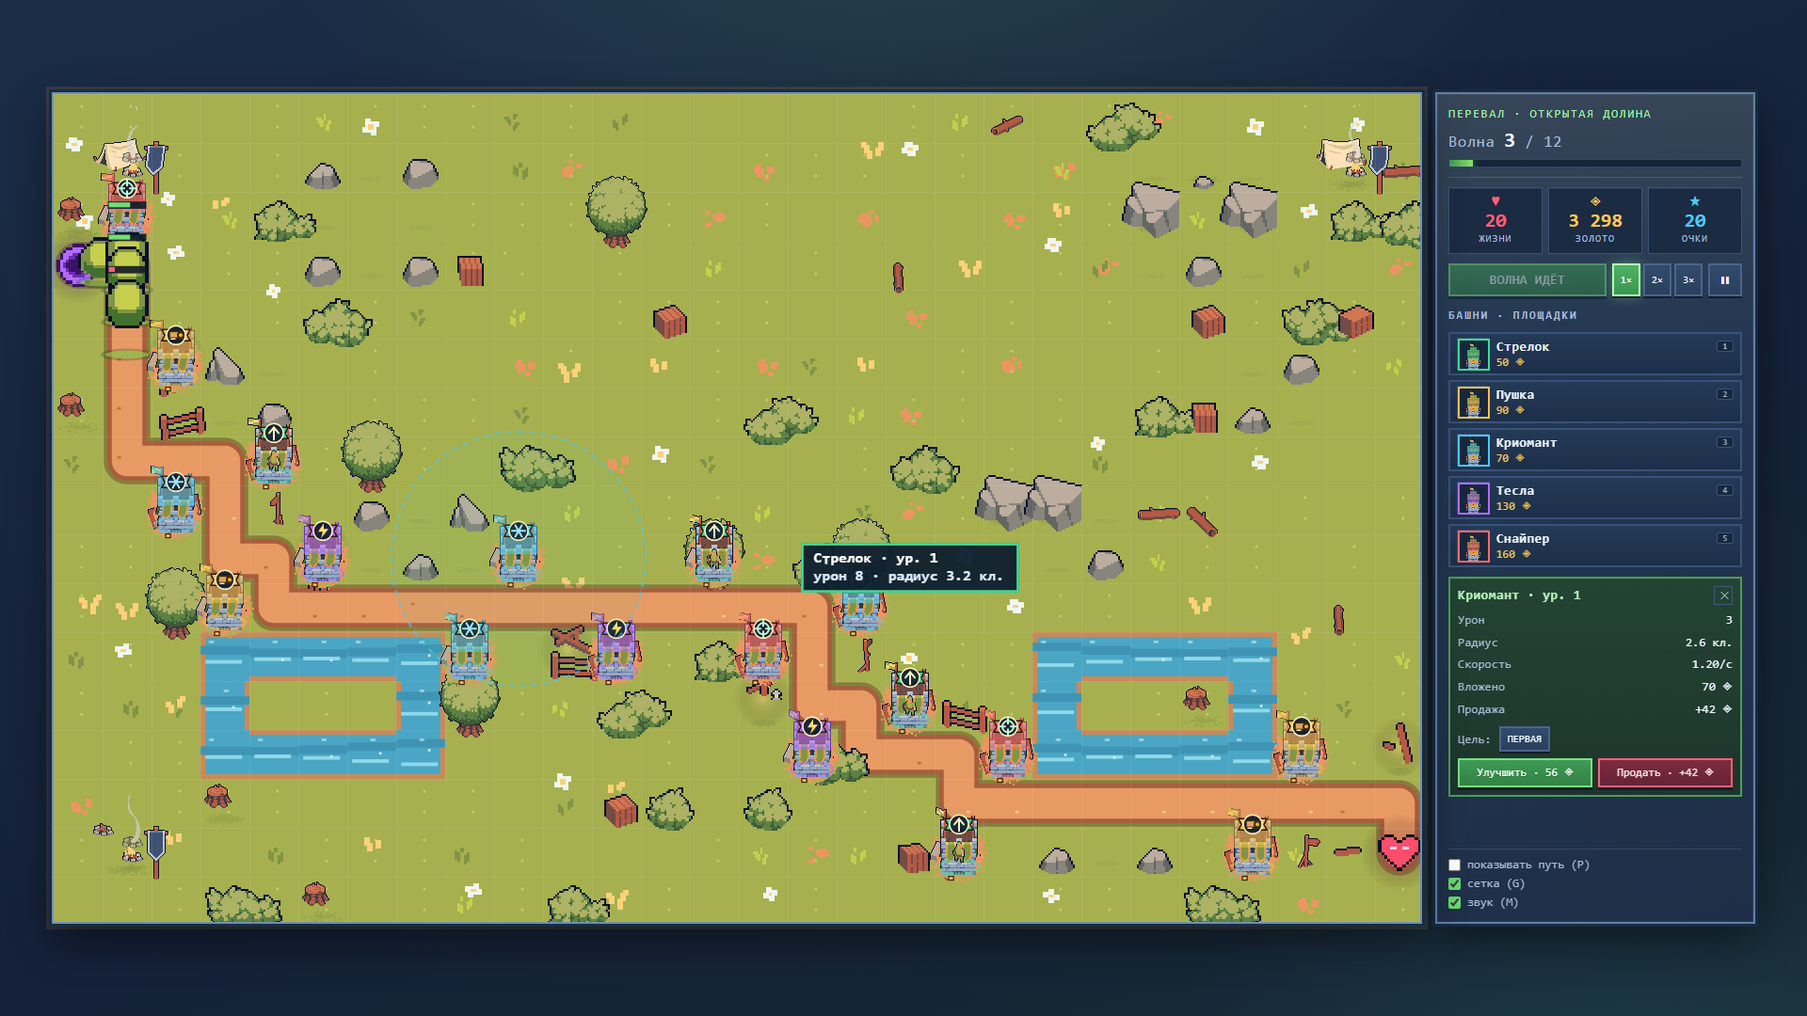
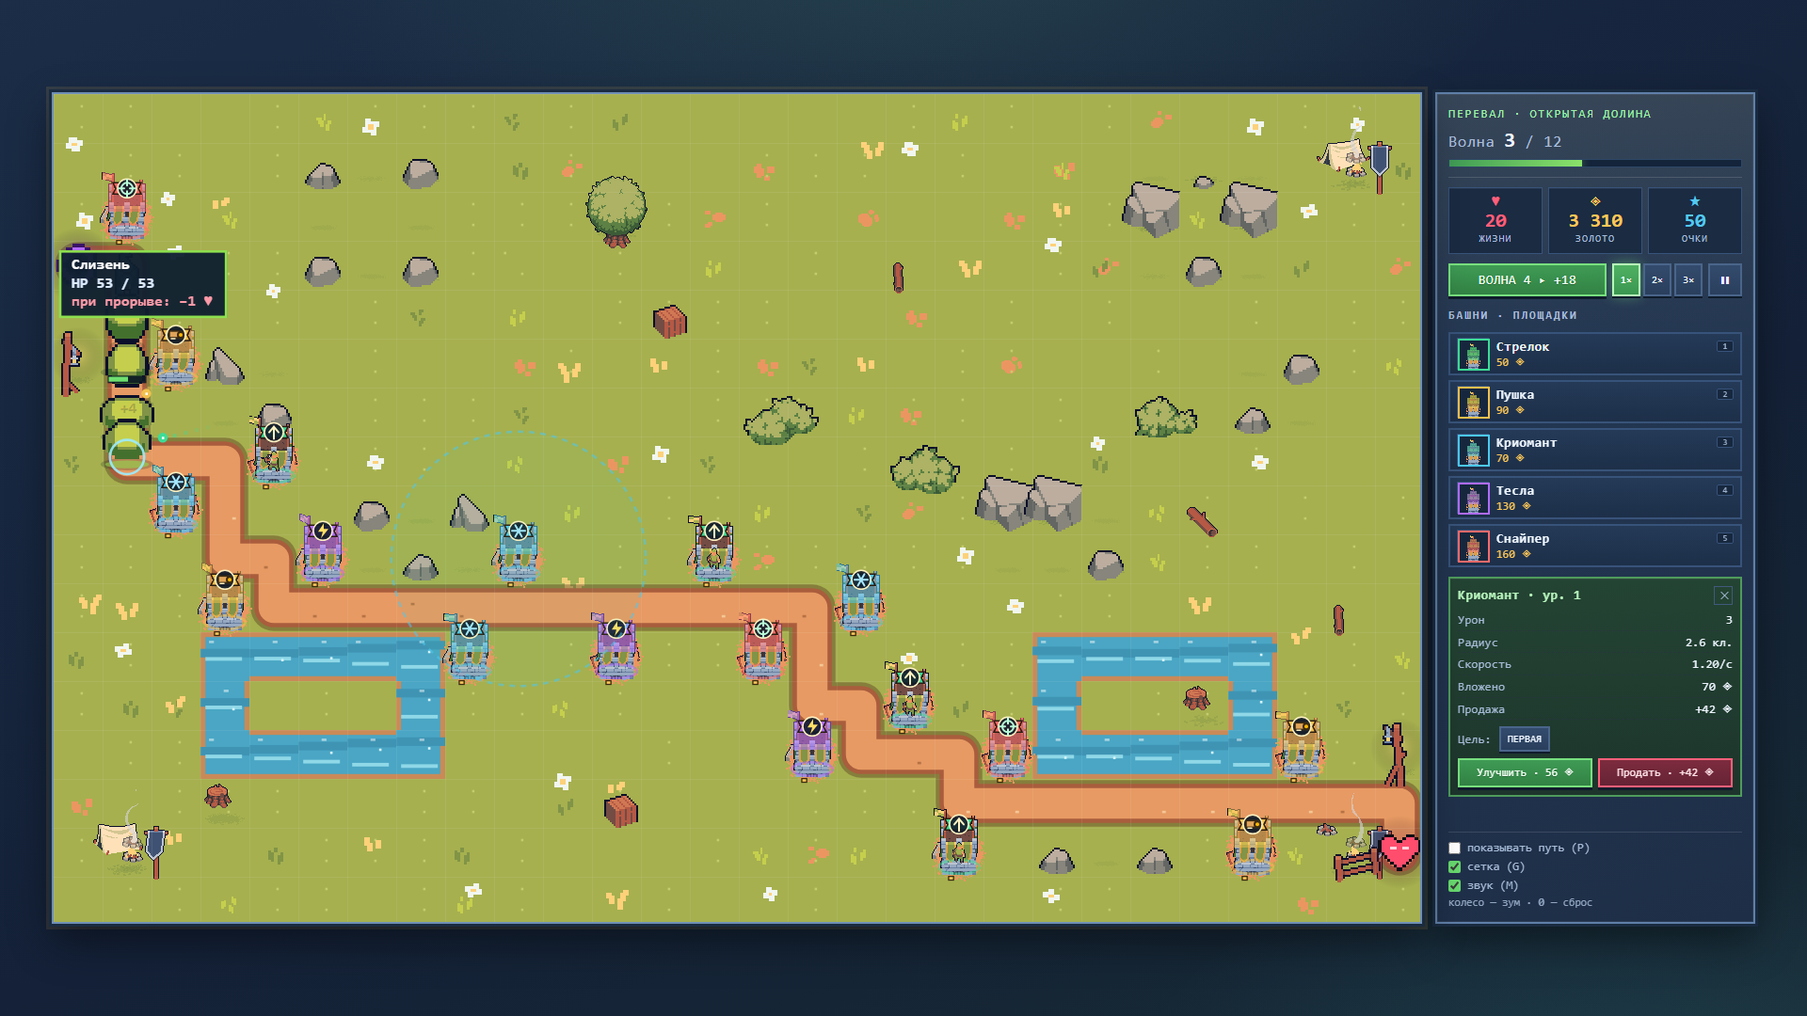
fix: декор не закрывает площадки, заметные места под башни

diff --git a/js/game.js b/js/game.js
@@ -95,14 +95,17 @@
     this.pathCells = [];
     this.routeCells = this.grid.getPath();
     this.refreshPath();
-    this.decor = this.buildDecor();
+    /* Сначала площадки и лагеря, затем декор: тяжёлые объекты не должны
+       закрывать места под башни и друг друга. */
     this.spots = this.computeSpots(C.buildSpots);
     this.spotKeys = {};
     for (var si = 0; si < this.spots.length; si++) {
       this.spotKeys[this.spots[si].c + ',' + this.spots[si].r] = true;
     }
     this.camps = this.findCamps();
-  }
+    this.heavyKeys = {};
+    this.decor = this.buildDecor();
+  };
 
   /** Уголки карты под декоративные палатки (не на маршруте). */
   Game.prototype.findCamps = function () {
@@ -119,7 +122,7 @@
       if (this.onPath(p.c, p.r)) continue;
       if (this.grid.spawn.c === p.c && this.grid.spawn.r === p.r) continue;
       if (this.grid.base.c === p.c && this.grid.base.r === p.r) continue;
-      if (this.isSpot(p.c, p.r)) continue;
+      if (this.nearSpot(p.c, p.r, 1)) continue;
       out.push(p);
     }
     return out.slice(0, 3);
@@ -194,6 +197,59 @@
     return null;
   };
 
+  /* ================= проверки декора ================= */
+
+  Game.prototype.nearPath = function (c, r, radius) {
+    for (var dr = -radius; dr <= radius; dr++) {
+      for (var dc = -radius; dc <= radius; dc++) {
+        if (this.onPath(c + dc, r + dr)) return true;
+      }
+    }
+    return false;
+  };
+
+  /** Клетка рядом с площадкой (включая её саму): там декору не место. */
+  Game.prototype.nearSpot = function (c, r, radius) {
+    var rad = radius == null ? 1 : radius;
+    for (var dr = -rad; dr <= rad; dr++) {
+      for (var dc = -rad; dc <= rad; dc++) {
+        if (this.isSpot(c + dc, r + dr)) return true;
+      }
+    }
+    return false;
+  };
+
+  Game.prototype.nearCamp = function (c, r) {
+    for (var i = 0; i < this.camps.length; i++) {
+      if (Math.abs(this.camps[i].c - c) <= 1 && Math.abs(this.camps[i].r - r) <= 1) return true;
+    }
+    return false;
+  };
+
+  Game.prototype.heavyAt = function (c, r) {
+    return !!this.heavyKeys[c + ',' + r];
+  };
+
+  /** Можно ли поставить крупный объект: не на площадке, не у дороги,
+      не в лагере и не вплотную к другому крупному объекту или скале. */
+  Game.prototype.canPlaceHeavy = function (c, r) {
+    if (this.nearSpot(c, r, 1)) return false;
+    if (this.onPath(c, r)) return false;
+    if (c < 1 || c > this.grid.cols - 2 || r < 1 || r > this.grid.rows - 2) return false;
+    if (this.nearPath(c, r, 1) || this.nearCamp(c, r)) return false;
+    for (var dr = -1; dr <= 1; dr++) {
+      for (var dc = -1; dc <= 1; dc++) {
+        if (this.heavyAt(c + dc, r + dr)) return false;
+        if (this.grid.at(c + dc, r + dr) === '#') return false;
+      }
+    }
+    return true;
+  };
+
+  Game.prototype.markHeavy = function (c, r) {
+    this.heavyKeys[c + ',' + r] = true;
+  };
+
   /* ================= события и звук ================= */
 
   Game.prototype.emit = function (type, data) {
@@ -213,22 +269,33 @@
   Game.prototype.buildDecor = function () {
     var out = [];
     var seed = TD.hash('decor:' + this.levelIndex);
+    this.heavyKeys = {};
     for (var r = 0; r < this.grid.rows; r++) {
       for (var c = 0; c < this.grid.cols; c++) {
         var ch = this.grid.at(c, r);
         var n = TD.noise2(c, r, seed);
         var n2 = TD.noise2(c + 13, r + 7, seed);
         var n3 = TD.noise2(c + 41, r + 23, seed);
+        var onSpot = this.isSpot(c, r);
+        var heavy = !onSpot && this.canPlaceHeavy(c, r);
+
+        /* крупные объекты — деревья, кусты, брёвна и ящики — ставим с
+           промежутком и только вне площадок, дороги и лагерей */
+        var bush = heavy && (ch === '.' || ch === ',') && n > 0.975;
+        var shrub = heavy && ch === '.' && n2 > 0.84 && n2 < 0.89;
+        var prop = heavy && ch === '.' && n3 > 0.94;
+        if (bush || shrub || prop) this.markHeavy(c, r);
+
         out.push({
           c: c, r: r, ch: ch,
-          dot: n > 0.45,
-          bush: (ch === '.' || ch === ',') && n > 0.975,
-          shrub: ch === '.' && n2 > 0.84 && n2 < 0.89,
-          flower: ch === '.' && n2 > 0.9,
+          dot: !onSpot && n > 0.45,
+          bush: bush,
+          shrub: shrub,
+          flower: !onSpot && ch === '.' && n2 > 0.9,
           flowerWarm: n > 0.5,
-          tuft: (ch === '.' || ch === ',') && n > 0.46 && n < 0.6,
-          patch: ch === '.' && n2 > 0.8 && n2 < 0.84,
-          prop: ch === '.' && n3 > 0.94,
+          tuft: !onSpot && (ch === '.' || ch === ',') && n > 0.46 && n < 0.6,
+          patch: !onSpot && ch === '.' && n2 > 0.8 && n2 < 0.84,
+          prop: prop,
           propType: (n3 > 0.97 ? 'box' : 'log'),
           pebble: false,
           flip: n > 0.5,
@@ -1328,6 +1395,7 @@
         var nr = p.r + dirs[d][1];
         if (this.grid.at(nc, nr) !== '.') continue;
         if (this.onPath(nc, nr)) continue;
+        if (this.nearSpot(nc, nr, 1) || this.heavyAt(nc, nr)) continue;
         var lx = nc * cell;
         var ly = nr * cell;
         lampNo += 1;
@@ -1361,7 +1429,7 @@
         var nr = p.r + dirs[d][1];
         if (this.grid.at(nc, nr) !== '.') continue;
         if (this.onPath(nc, nr)) continue;
-        if (this.isSpot(nc, nr)) continue;
+        if (this.nearSpot(nc, nr, 1) || this.heavyAt(nc, nr)) continue;
         put += 1;
         var ptrKey = 'pointer' + (1 + put % 6);
         var ptrInfo = A.size(ptrKey);
@@ -1388,8 +1456,9 @@
         var nr = p.r + dirs[d][1];
         if (this.grid.at(nc, nr) !== '.') continue;
         if (this.onPath(nc, nr)) continue;
-        if (this.isSpot(nc, nr)) continue;
+        if (this.nearSpot(nc, nr, 1)) continue;
         if (this.towerAt(nc, nr)) continue;
+        if (this.heavyAt(nc, nr)) continue;
         put += 1;
         var fenceKey = 'fence' + (1 + put % 10);
         var fenceInfo = A.size(fenceKey);
@@ -1498,24 +1567,36 @@
     ctx.restore();
   };
 
-  /** Площадки под башни: видны всегда, подсвечиваются при выборе башни. */
+  /** Площадки под башни: заметные площадки с золотыми уголками и значком «+». */
   Game.prototype.drawSpots = function (ctx) {
     var A = TD.Assets;
     var cell = this.grid.cell;
     var k = cell / 40;
-    var pad = 62;
 
     for (var i = 0; i < this.spots.length; i++) {
       var s = this.spots[i];
       var center = this.grid.cellCenter(s.c, s.r);
       var occupied = !!this.towerAt(s.c, s.r);
+      var free = !occupied;
+      var hovered = this.hover.c === s.c && this.hover.r === s.r;
+
+      /* мягкая тень, чтобы площадка не сливалась с травой */
+      ctx.save();
+      ctx.fillStyle = free ? 'rgba(24,30,14,0.30)' : 'rgba(24,30,14,0.18)';
+      ctx.beginPath();
+      ctx.ellipse(center.x, center.y + cell * 0.33, cell * 0.30, cell * 0.10, 0, 0, Math.PI * 2);
+      ctx.fill();
+      ctx.restore();
+      this.glow(ctx, center.x, center.y + cell * 0.06, cell * 0.44,
+        free ? 'rgba(255,205,96,0.30)' : 'rgba(255,205,96,0.10)');
 
       if (A && A.has('towerPlace1')) {
+        var pad = free ? cell + 12 : cell + 6;
         A.draw(ctx, i % 2 ? 'towerPlace2' : 'towerPlace1',
           center.x - pad / 2, center.y - pad / 2 + 2, pad, pad);
-      } else if (!occupied) {
+      } else if (free) {
         ctx.save();
-        ctx.strokeStyle = 'rgba(255,255,255,0.22)';
+        ctx.strokeStyle = 'rgba(255,255,255,0.30)';
         ctx.setLineDash([5 * k, 4 * k]);
         ctx.beginPath();
         ctx.arc(center.x, center.y, 15 * k, 0, Math.PI * 2);
@@ -1525,11 +1606,72 @@
 
       if (occupied) continue;
 
-      var hovered = this.hover.c === s.c && this.hover.r === s.r;
+      /* золотые уголки по краям клетки — читаются как «место под башню» */
+      var inset = 4 * k;
+      var arm = 13 * k;
+      var x0 = s.c * cell + inset;
+      var y0 = s.r * cell + inset;
+      var x1 = (s.c + 1) * cell - inset;
+      var y1 = (s.r + 1) * cell - inset;
+      ctx.save();
+      ctx.lineCap = 'square';
+      for (var pass = 0; pass < 2; pass++) {
+        ctx.strokeStyle = pass ? '#ffe6a3' : 'rgba(30,21,8,0.6)';
+        ctx.lineWidth = pass ? 2.4 * k : 5 * k;
+        ctx.beginPath();
+        ctx.moveTo(x0, y0 + arm); ctx.lineTo(x0, y0); ctx.lineTo(x0 + arm, y0);
+        ctx.moveTo(x1 - arm, y0); ctx.lineTo(x1, y0); ctx.lineTo(x1, y0 + arm);
+        ctx.moveTo(x1, y1 - arm); ctx.lineTo(x1, y1); ctx.lineTo(x1 - arm, y1);
+        ctx.moveTo(x0 + arm, y1); ctx.lineTo(x0, y1); ctx.lineTo(x0, y1 - arm);
+        ctx.stroke();
+      }
+      ctx.restore();
+
+      /* пульсирующее кольцо вокруг платформы */
+      var pulse = 0.5 + 0.5 * Math.sin(this.time * 3 + i * 1.7);
+      ctx.save();
+      ctx.globalAlpha = 0.40 + 0.35 * pulse;
+      ctx.strokeStyle = hovered ? '#fff3c4' : '#ffd166';
+      ctx.lineWidth = 2 * k;
+      ctx.setLineDash([4 * k, 4 * k]);
+      ctx.beginPath();
+      ctx.arc(center.x, center.y + 2 * k, cell * 0.36, 0, Math.PI * 2);
+      ctx.stroke();
+      ctx.restore();
+
+      /* значок «+» в углу клетки */
+      var bx = x1 - 9 * k;
+      var by = y0 + 9 * k;
+      ctx.save();
+      ctx.fillStyle = 'rgba(28,21,10,0.78)';
+      ctx.beginPath();
+      ctx.arc(bx, by, 8 * k, 0, Math.PI * 2);
+      ctx.fill();
+      ctx.strokeStyle = '#ffd166';
+      ctx.lineWidth = 1.5 * k;
+      ctx.stroke();
+      ctx.strokeStyle = '#ffe9a8';
+      ctx.lineWidth = 2.4 * k;
+      ctx.lineCap = 'round';
+      ctx.beginPath();
+      ctx.moveTo(bx - 4 * k, by); ctx.lineTo(bx + 4 * k, by);
+      ctx.moveTo(bx, by - 4 * k); ctx.lineTo(bx, by + 4 * k);
+      ctx.stroke();
+      ctx.restore();
+
+      /* при выборе башни клетка подсвечивается: зелёная — можно, красная — нет */
       if (this.buildType || hovered) {
+        if (this.buildType) {
+          ctx.fillStyle = hovered
+            ? (this.hover.ok ? 'rgba(61,220,151,0.20)' : 'rgba(239,71,111,0.22)')
+            : 'rgba(61,220,151,0.06)';
+          ctx.fillRect(s.c * cell + 2, s.r * cell + 2, cell - 4, cell - 4);
+        }
         ctx.save();
         ctx.globalAlpha = 0.55 + 0.35 * Math.sin(this.time * 4 + i);
-        ctx.strokeStyle = this.buildType ? (hovered && this.hover.ok ? '#c9ffcb' : '#9af09f') : '#fff2c2';
+        ctx.strokeStyle = this.buildType
+          ? (hovered && this.hover.ok ? '#c9ffcb' : '#9af09f')
+          : '#fff2c2';
         ctx.lineWidth = 2 * k;
         ctx.setLineDash([5 * k, 5 * k]);
         ctx.beginPath();

diff --git a/docs/HANDOFF.md b/docs/HANDOFF.md
@@ -12,7 +12,7 @@
 Проект собран целиком: все файлы на месте, игра запускается двойным кликом по
 `index.html`. Проверки:
 
-* `node tests/run.js` — 38 юнит-тестов логики и ассетов, все проходят;
+* `node tests/run.js` — 39 юнит-тестов логики и ассетов, все проходят;
 * `node tools/balance.js` — бот проходит все шесть карт (12/12 волн);
 * `node tools/ui-check.js` — 47 проверок интерфейса в headless Chrome, ошибок в консоли нет.
 
@@ -70,7 +70,7 @@ assets/                                            — сторонние наб
   free-fields-tileset-pixel-art-for-tower-defense/ — поле и объекты (CraftPix)
   free-archer-towers-pixel-art-for-tower-defense/  — башня, апгрейды, лучник
   free-field-enemies-pixel-art-for-tower-defense/  — анимации монстров
-tests/run.js          — 38 тестов логики на Node (без браузера)
+tests/run.js          — 39 тестов логики на Node (без браузера)
 tools/balance.js      — симуляция баланса ботом
 tools/ui-check.js     — проверка интерфейса через DevTools Protocol
 docs/screenshots/     — скриншоты для README
@@ -136,6 +136,14 @@ https://craftpix.net/file-licenses/):
 дорогу и путь врагов.
 A* по-прежнему считает путь от портала к сердцу, а проверка `canPlace` остаётся
 страховкой: площадки никогда не стоят на дороге.
+
+**Читаемость площадок.** Свободная площадка рисуется как платформа из набора с тенью,
+тёплым свечением, золотыми уголками по краям клетки и значком «+»; вокруг платформы
+идёт пульсирующее кольцо. При выборе башни клетка подсвечивается зелёным или красным.
+Декор рассчитывается после площадок и лагерей: крупные объекты (деревья, кусты, брёвна,
+ящики) не ставятся на площадку, вплотную к ней, у дороги и в лагерях, а также держат
+промежуток в клетку друг от друга. Фонари, флажки и заборы обходят площадки и крупный
+декор. Это проверяет отдельный тест на всех шести картах.
 
 Движение — по 4 направлениям (без диагоналей, чтобы не было «протечек» сквозь углы).
 
@@ -245,12 +253,12 @@ A* по-прежнему считает путь от портала к серд
       генерация у дороги), одновременные волны внахлёст с бонусом, снаряды, сплэш, цепь,
       замедление, боссы, террейн из тайлсета, анимированные башни с лучником, анимированные
       монстры (ходьба/смерть), фиксированная дорога, кольца врагов, подсказки с уроном
-      по жизням.
+      по жизням, заметная отрисовка площадок и декор без пересечений.
 - [x] `js/ui.js` — все экраны, анимированное меню, HUD, магазин, инспектор, горячие
       клавиши, сохранения, бестиарий, зум колесом мыши (до 3×, сброс на `0`), экран
       прокачки за очки и подсказки при наведении.
 - [x] `js/main.js` — бутстрап и отладочный автозапуск `?test=1&level=0`.
-- [x] `tests/run.js` — 38 тестов логики, ассетов, площадок, фиксированного маршрута,
+- [x] `tests/run.js` — 39 тестов логики, ассетов, площадок, фиксированного маршрута,
       одновременных волн и постоянной прокачки.
 - [x] `tools/balance.js` — симуляция баланса; все шесть карт проходятся.
 - [x] `tools/ui-check.js` — 47 проверок интерфейса в настоящем браузере.
@@ -285,7 +293,7 @@ A* по-прежнему считает путь от портала к серд
 Логика отделена от DOM, поэтому:
 
 ```bash
-node tests/run.js          # 38 юнит-тестов логики, ассетов и площадок
+node tests/run.js          # 39 юнит-тестов логики, ассетов и площадок
 node tools/balance.js      # бот-симуляция баланса (все 6 карт)
 node tools/ui-check.js     # 47 проверок интерфейса в headless Chrome/Edge
 ```

diff --git a/docs/CONVERSATION.md b/docs/CONVERSATION.md
@@ -192,3 +192,15 @@ free-field-enemies (слизень, орк, волк, оса — ходьба в
 идёт за очки, а не за игровое золото; бонусы применяются к следующей партии. Экран
 результата показывает, сколько очков ушло в копилку. Тестов стало 38, проверок
 интерфейса — 47; в README добавлен скриншот прокачки.
+
+---
+
+## Обновление: читаемая карта и чистый декор
+
+Площадки под башни теперь заметны: платформа с тенью и тёплым свечением, золотые
+уголки по краям клетки, значок «+» и пульсирующее кольцо; при выборе башни клетка
+подсвечивается зелёным или красным. Декор переставлен: крупные объекты (деревья, кусты,
+брёвна, ящики) больше не появляются на площадках, вплотную к ним, у дороги и в лагерях
+и держат промежуток в клетку друг от друга; фонари, флажки и заборы обходят площадки.
+Скриншоты `game.png` и `spots.png` пересняты, добавлен тест на все шесть карт; тестов
+стало 39.

diff --git a/START-HERE.md b/START-HERE.md
@@ -11,7 +11,7 @@
 ## Проверки
 
 ```bash
-node tests/run.js          # 38 юнит-тестов логики, ассетов и площадок
+node tests/run.js          # 39 юнит-тестов логики, ассетов и площадок
 node tools/balance.js      # симуляция баланса: все 6 карт проходятся
 node tools/ui-check.js     # 47 проверок интерфейса в headless-браузере
 ```
